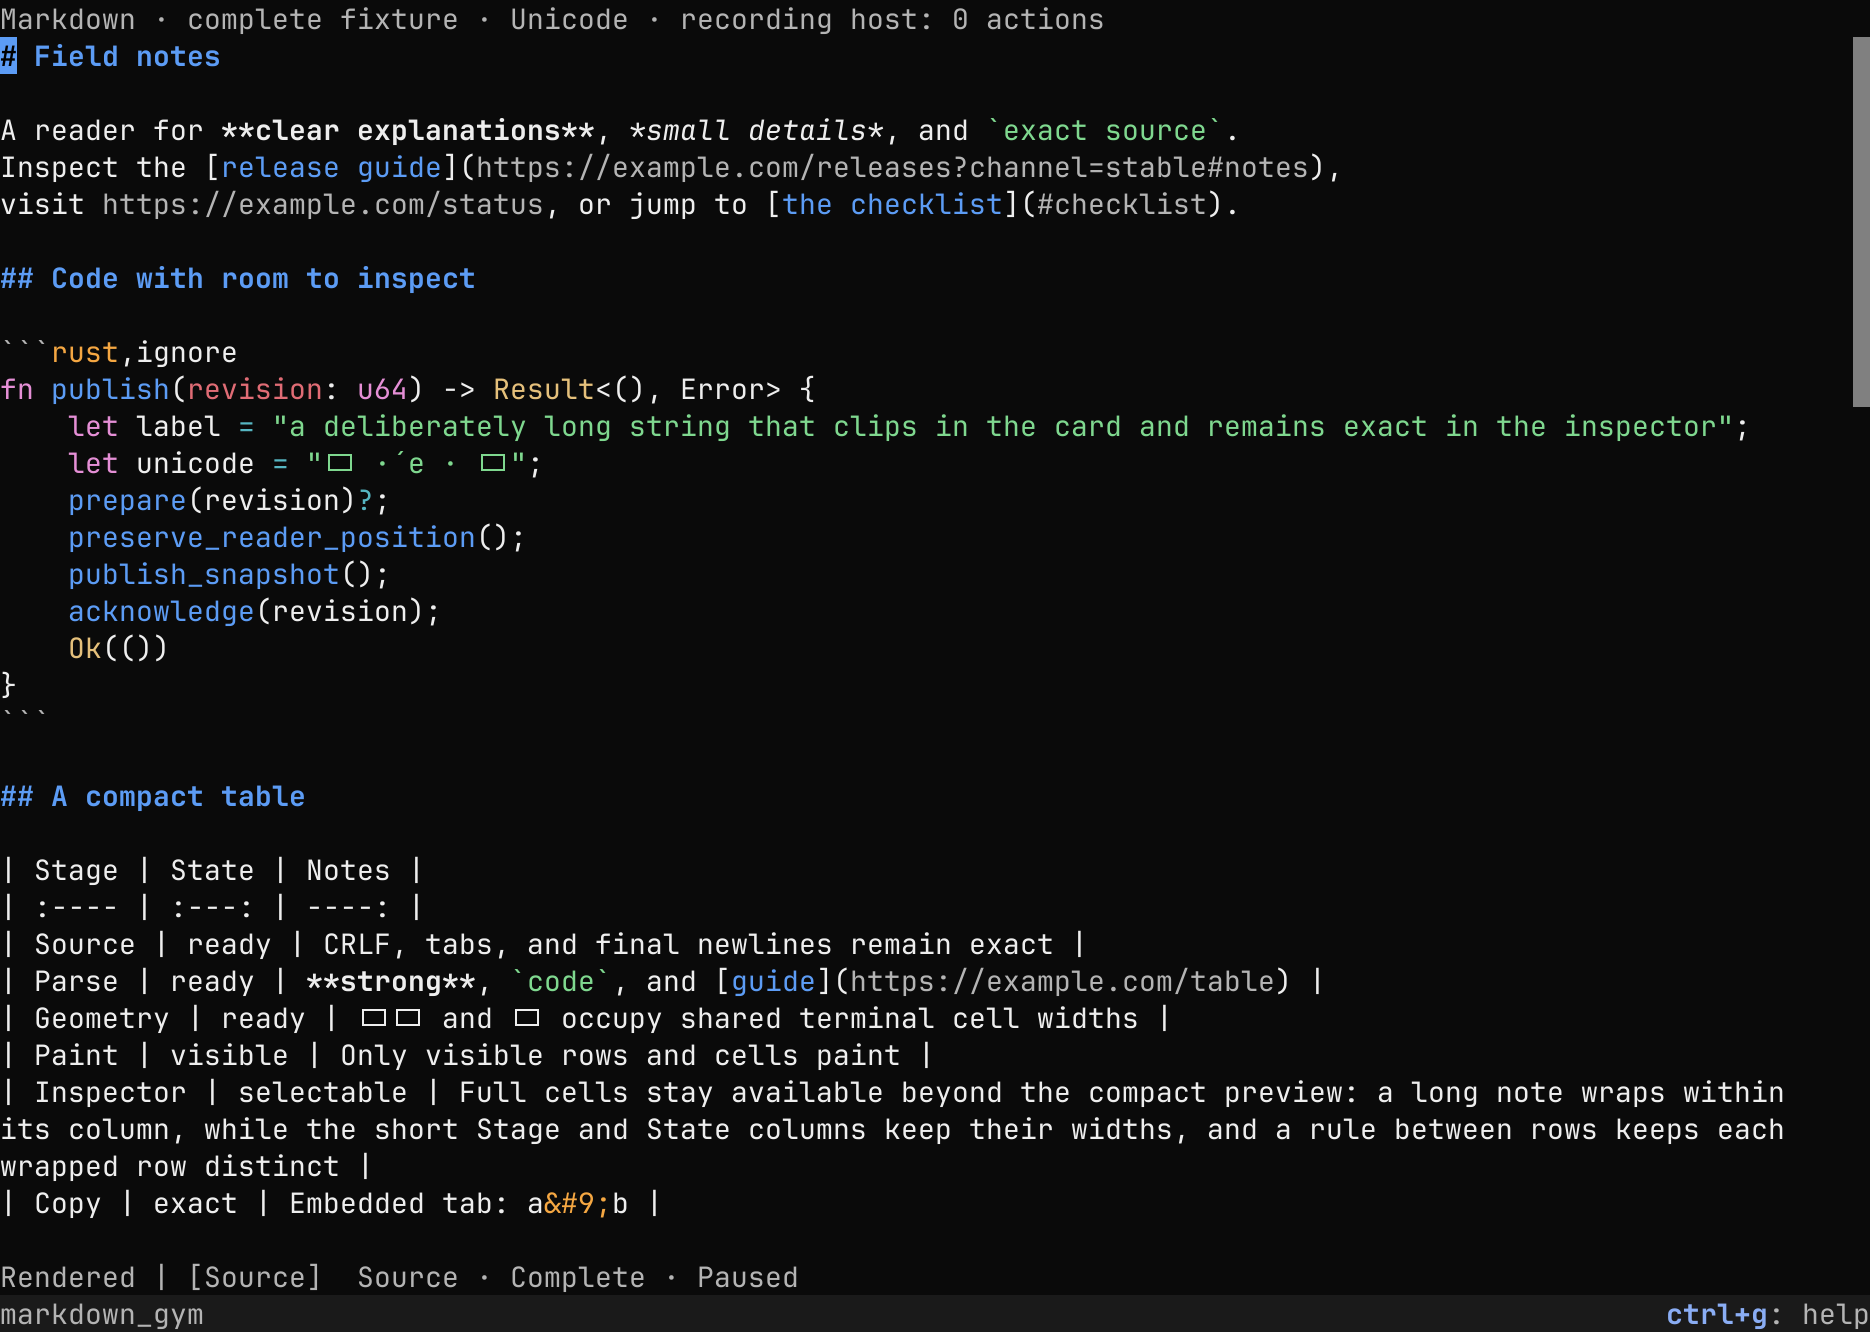
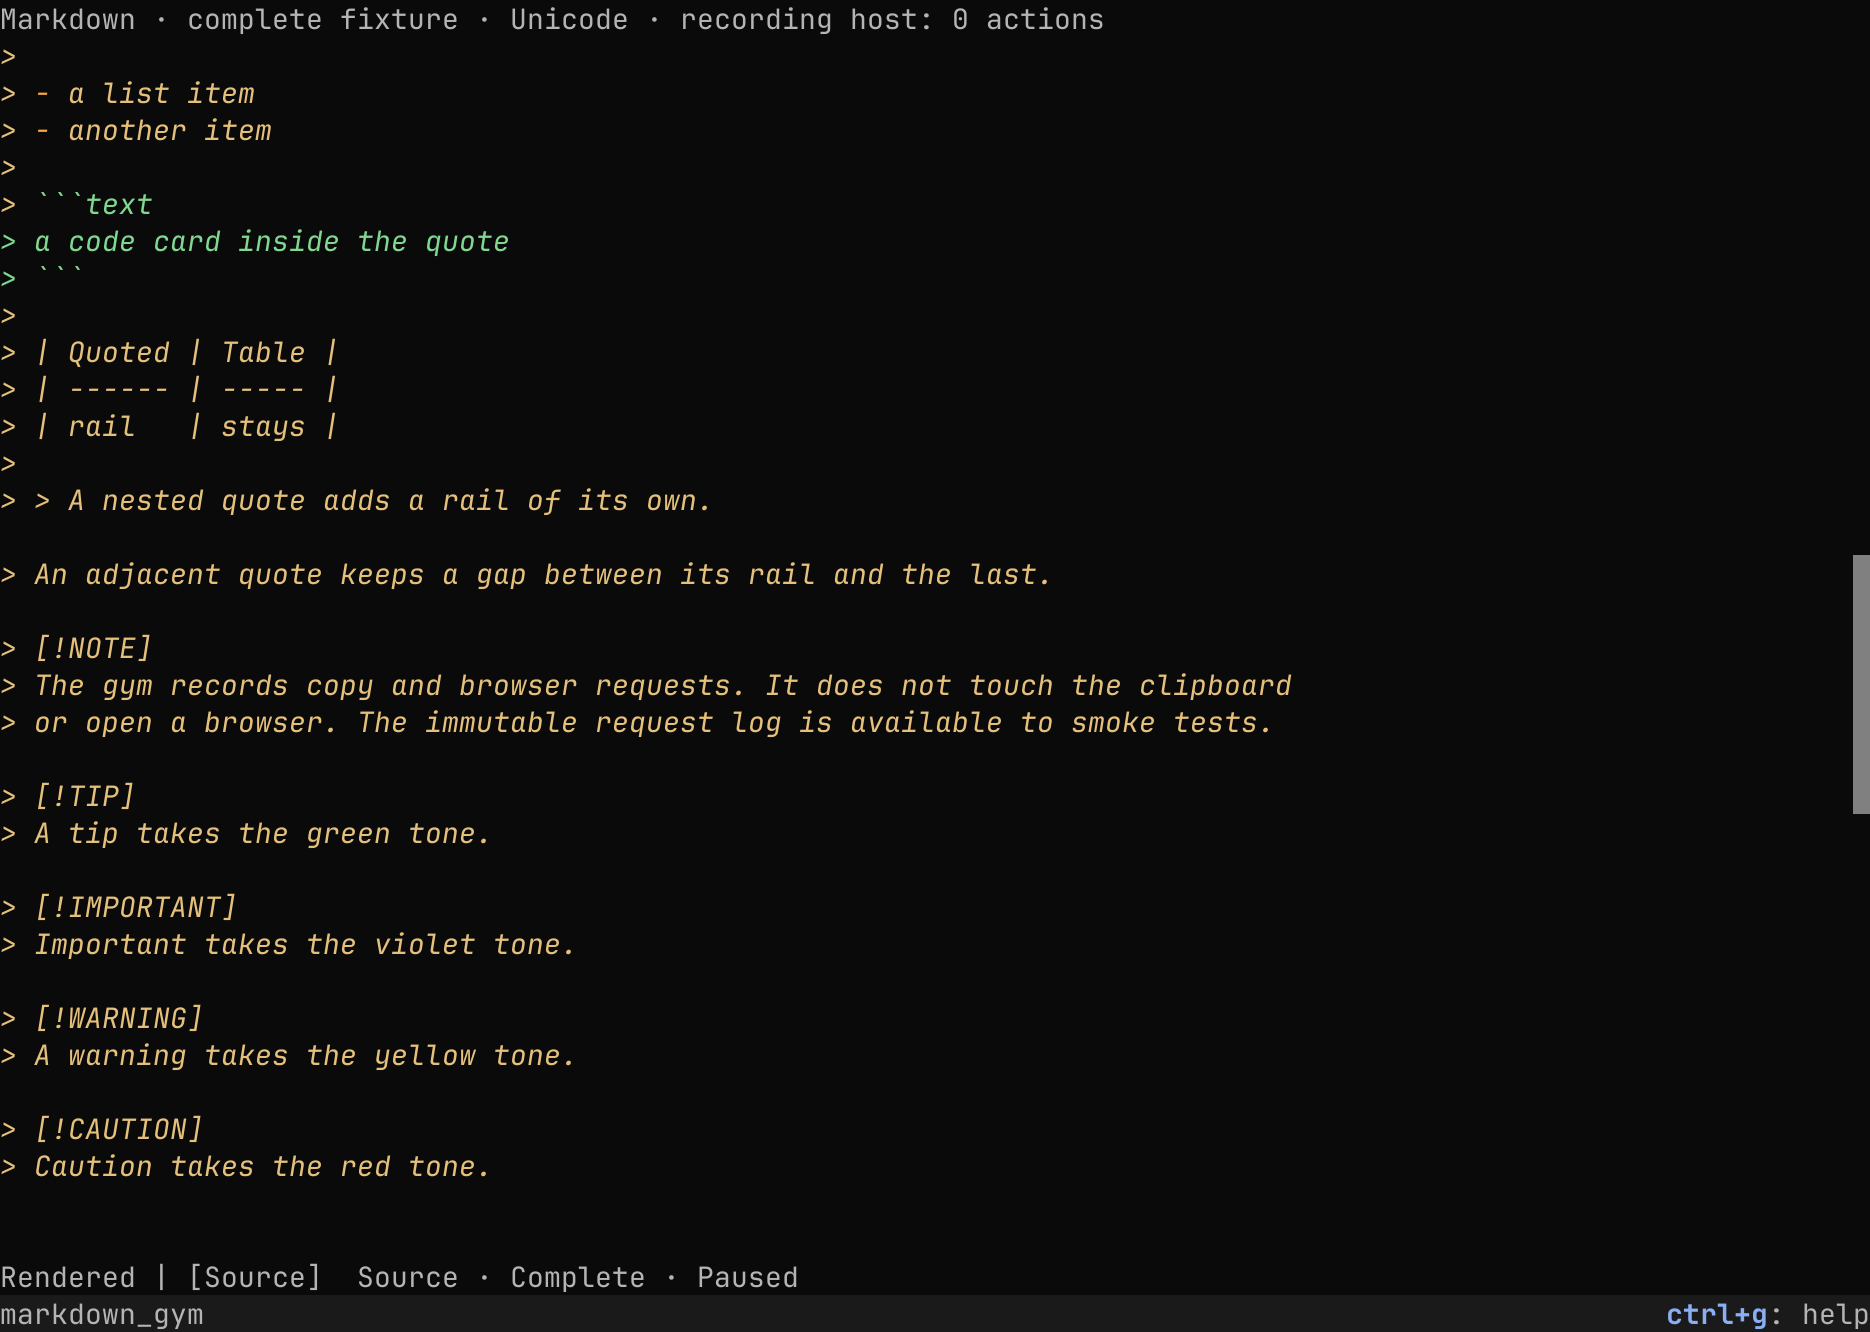
Exercise quotes, alerts, and wide tables in the Markdown gym
The fixture gains a quote holding a list, code, a table, and a nested
quote; adjacent quotes; every GitHub alert kind; common labels with a
fold sign; a nested alert; and an unknown label. The gallery adds shots
of quote rails, alert tones, and the wide table inspector, including its
sideways scroll in a narrow view.

diff --git a/docs/gallery/index.html b/docs/gallery/index.html
@@ -346,7 +346,7 @@
 <script>
 const GALLERY = {
   "title": "Canopy widgets",
-  "generated": 1792280653,
+  "generated": 1792281805,
   "font_size": 14.0,
   "scale": 2.0,
   "sizes": [
@@ -594,8 +594,8 @@ const GALLERY = {
     },
     {
       "id": "code-inspector",
-      "title": "Complete code",
-      "caption": "The code inspector includes the lines omitted from the card and preserves its payload.",
+      "title": "Code inspector",
+      "caption": "The code inspector pins the exact payload for selection and copy.",
       "script": "markdown.luau",
       "shots": [
         {
@@ -645,6 +645,20 @@ const GALLERY = {
       ]
     },
     {
+      "id": "wide-table-inspector",
+      "title": "Wide table",
+      "caption": "Every value shows in full: values wrap within columns that fit the inspector.",
+      "script": "markdown.luau",
+      "shots": [
+        {
+          "size": "110x36",
+          "file": "wide-table-inspector-110x36.png",
+          "width": 1870,
+          "height": 1332
+        }
+      ]
+    },
+    {
       "id": "search",
       "title": "Search hidden payloads",
       "caption": "Search covers complete code, table, and source-card content.",
@@ -660,6 +674,34 @@ const GALLERY = {
             "👩",
             "💻"
           ]
+        }
+      ]
+    },
+    {
+      "id": "quotes",
+      "title": "Quote rails",
+      "caption": "A quote's rail runs unbroken past the lists, code cards, tables, and nested quotes it holds.",
+      "script": "markdown.luau",
+      "shots": [
+        {
+          "size": "110x36",
+          "file": "quotes-110x36.png",
+          "width": 1870,
+          "height": 1332
+        }
+      ]
+    },
+    {
+      "id": "alerts",
+      "title": "Alert tones",
+      "caption": "Alerts colour their rail and label by tone; common labels from other tools take the closest kind.",
+      "script": "markdown.luau",
+      "shots": [
+        {
+          "size": "110x36",
+          "file": "alerts-110x36.png",
+          "width": 1870,
+          "height": 1332
         }
       ]
     },
@@ -692,12 +734,7 @@ const GALLERY = {
           "size": "110x36",
           "file": "source-110x36.png",
           "width": 1870,
-          "height": 1332,
-          "missing": [
-            "界",
-            "👩",
-            "💻"
-          ]
+          "height": 1332
         }
       ]
     },
@@ -830,6 +867,20 @@ const GALLERY = {
             "👩",
             "💻"
           ]
+        }
+      ]
+    },
+    {
+      "id": "narrow-table-scrolled",
+      "title": "Sideways scroll",
+      "caption": "A grid too wide for the inspector even with narrowed columns scrolls sideways.",
+      "script": "markdown.luau",
+      "shots": [
+        {
+          "size": "110x36",
+          "file": "narrow-table-scrolled-110x36.png",
+          "width": 1870,
+          "height": 1332
         }
       ]
     },

diff --git a/examples/gyms/src/tests/markdown.rs b/examples/gyms/src/tests/markdown.rs
@@ -122,6 +122,12 @@ fn fixture_contains_release_acceptance_cases_and_tiny_viewports_settle() -> Resu
         "```rust,ignore",
         "| Stage |",
         "> [!NOTE]",
+        "> [!info]",
+        "> [!question]-",
+        "> > [!danger]",
+        "> [!UNKNOWN]",
+        "> ```text",
+        "> | Quoted |",
         "[^one]",
         "![Local architecture",
         "<details>",

diff --git a/examples/gyms/fixtures/markdown.md b/examples/gyms/fixtures/markdown.md
@@ -52,12 +52,58 @@ fn publish(revision: u64) -> Result<(), Error> {
 7. Preserve the parser's ordered numbering.
 8. Keep the next item consecutive.
 
+## Quotes and alerts
+
 > A quiet quote rail keeps long wrapped notes together. Resize the reader to
 > check hanging indentation and the relationship between text and decoration.
+>
+> The rail runs unbroken past every block the quote holds:
+>
+> - a list item
+> - another item
+>
+> ```text
+> a code card inside the quote
+> ```
+>
+> | Quoted | Table |
+> | ------ | ----- |
+> | rail   | stays |
+>
+> > A nested quote adds a rail of its own.
+
+> An adjacent quote keeps a gap between its rail and the last.
 
 > [!NOTE]
 > The gym records copy and browser requests. It does not touch the clipboard
 > or open a browser. The immutable request log is available to smoke tests.
+
+> [!TIP]
+> A tip takes the green tone.
+
+> [!IMPORTANT]
+> Important takes the violet tone.
+
+> [!WARNING]
+> A warning takes the yellow tone.
+
+> [!CAUTION]
+> Caution takes the red tone.
+
+> [!info]
+> Labels from other tools take the tone of the closest kind: info is a note.
+
+> [!question]-
+> A question is a warning, and Obsidian's fold sign is dropped.
+
+> [!success]
+> An alert can hold another.
+>
+> > [!danger]
+> > The inner alert keeps its own tone, and the outer rail keeps its tone.
+
+> [!UNKNOWN]
+> An unknown label stays quote text.
 
 ### Text, images, and references
 
